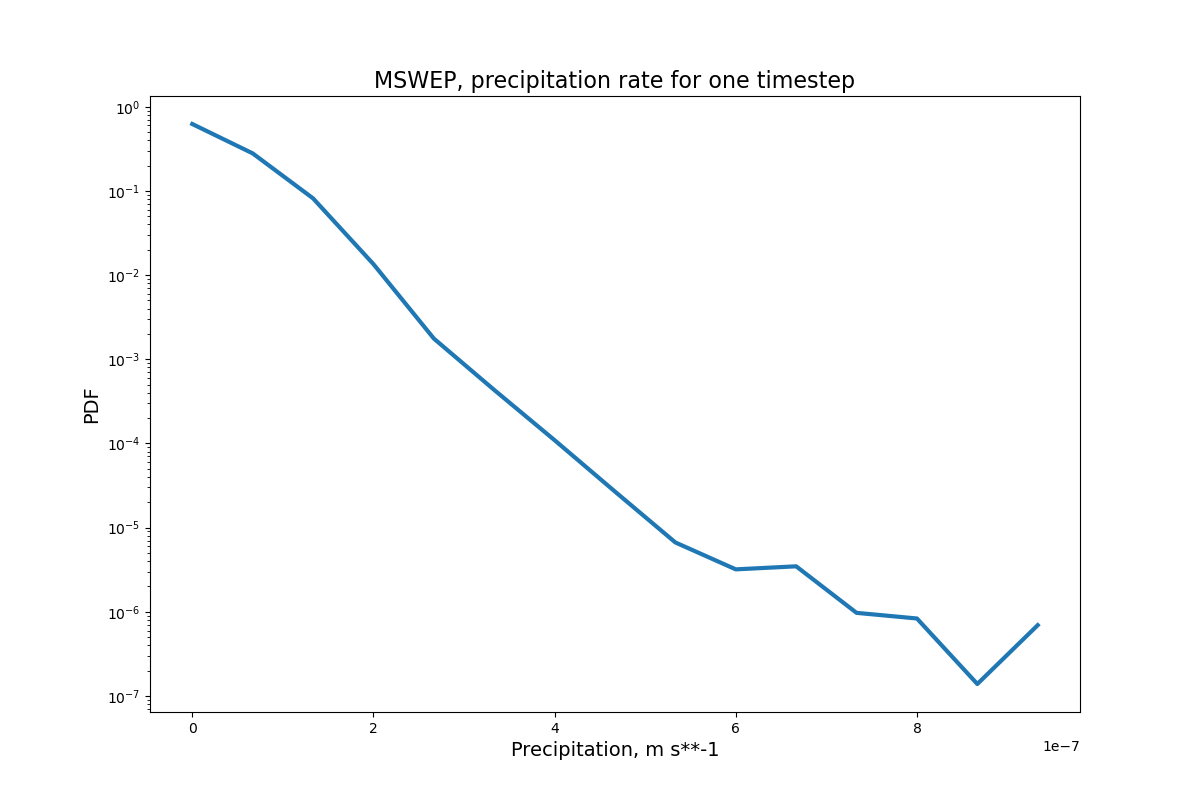
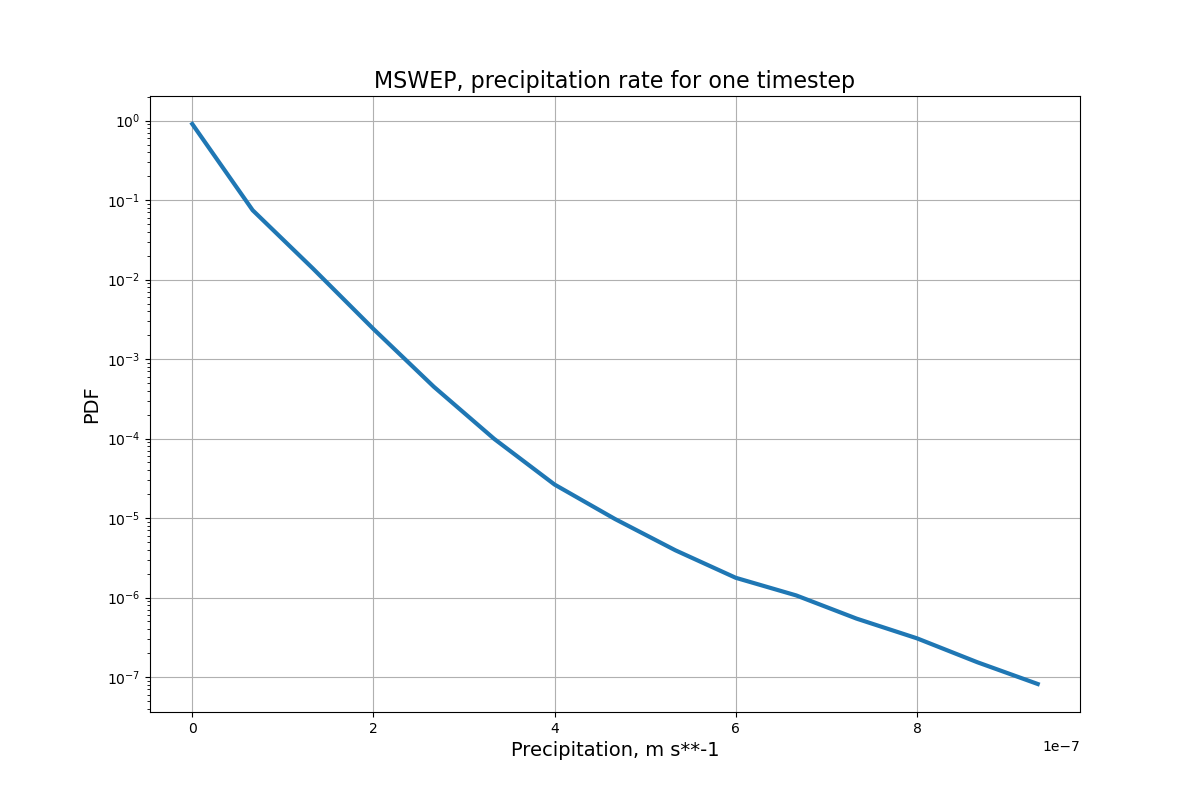
grids added

diff --git a/diagnostics/tropical_rainfall/src/tr_pr_mod.py b/diagnostics/tropical_rainfall/src/tr_pr_mod.py
@@ -317,10 +317,12 @@ class TR_PR_Diagnostic:
             plt.plot(data_median, label='median', color = 'tab:orange')
 
         plt.yscale('log')
-        plt.xlabel('Time', fontsize=12)
+        plt.grid(True)
+        plt.xlabel('Timestep index', fontsize=12)
         plt.ylabel('Precipitation per timestep, '+str(data.attrs['units']), fontsize=12)
         plt.title('Mean/median values of precipitation', fontsize =16)
         plt.legend(fontsize=12)
+        
 
         #plt.yscale('log')
         #print('gmean ....')
@@ -714,6 +716,7 @@ class TR_PR_Diagnostic:
             if smooth:
                 plt.plot(data.bin[0:], data_density, 
                     linewidth=3.0, ls = ls, color = color, label = label )
+                plt.grid(True)
             else:
                 N, bins, patches = plt.hist(x= data.bin[0:], bins = data.bin[0:], weights= data_density,  label = label)
 
@@ -731,6 +734,7 @@ class TR_PR_Diagnostic:
             if smooth:
                 plt.plot(data.bin[0:],  data[0:], 
                     linewidth=3.0, ls = ls, color = color, label = label )
+                plt.grid(True)
             else:
                 N, bins, patches = plt.hist(x= data.bin[0:], bins = data.bin[0:], weights=data[0:],  label = label)
                 fracs = ((N**(1 / 5)) / N.max())
